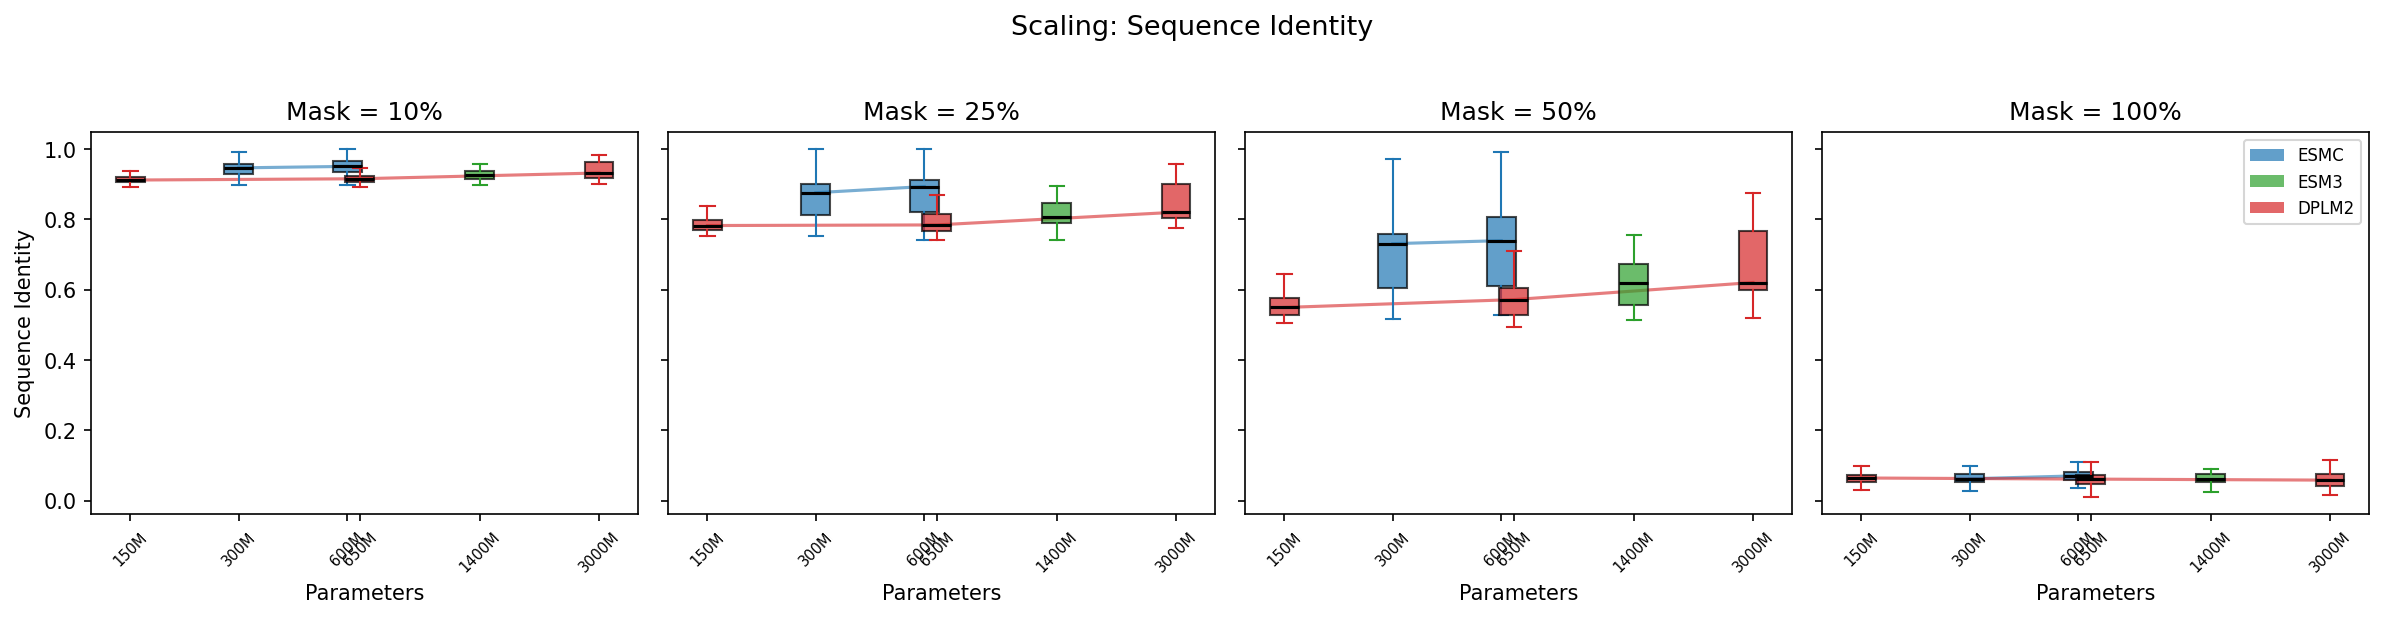
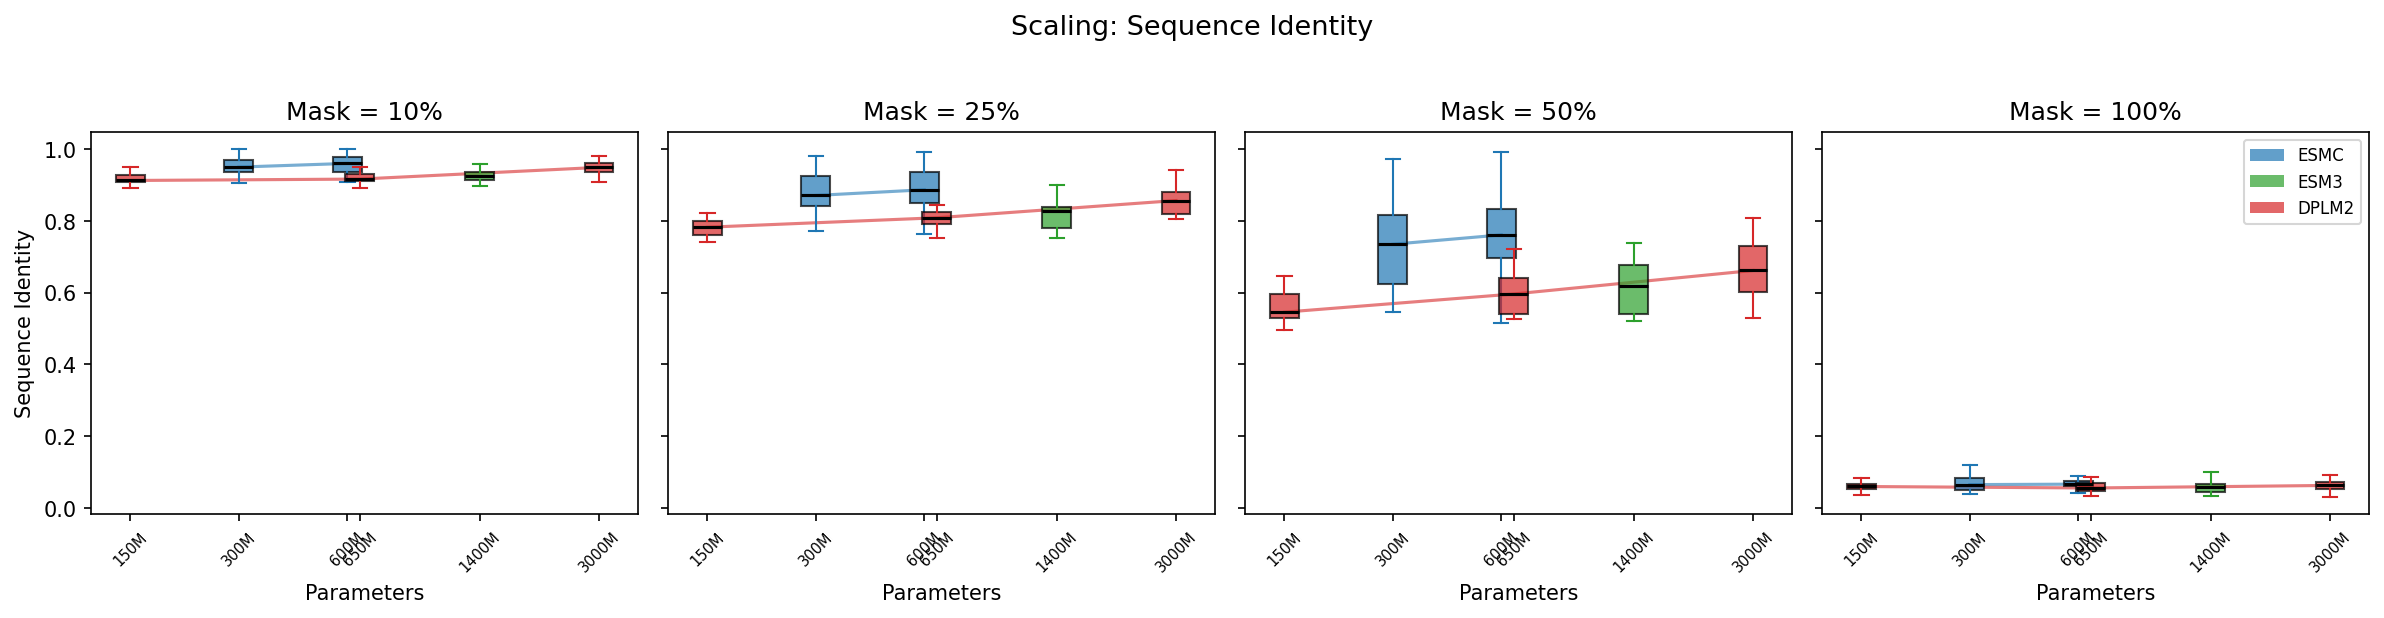
benchmark: run all 6 models, update docs with real results

diff --git a/docs/examples/benchmark-model-families.md b/docs/examples/benchmark-model-families.md
@@ -44,45 +44,33 @@ How well do models reconstruct the original sequence at each masking level?
 
 ![Sequence identity vs masking level](../assets/images/benchmark/sequence_identity.png)
 
-At low masking (10%), all models achieve >90% sequence identity — they're good at filling in a few gaps. The real separation happens at **50% masking**: ESM-C models (71–73%) and DPLM2-3B (66%) lead, while smaller DPLM2 models and ESM3 lag behind (56–62%).
+At 10% masking, all models achieve >91% sequence identity — filling in a few gaps is easy. The real separation happens at **50% masking**: ESMC-600M (75.3%) and ESMC-300M (73.6%) lead, followed by DPLM2-3B (67.9%). Smaller DPLM2 models and ESM3 lag behind: DPLM2-650M (59.8%), ESM3-Open (62.2%), DPLM2-150M (56.0%).
 
-At 100% masking (fully unconditional generation), all models converge to ~6% identity — essentially random, as expected.
+At 100% masking (fully unconditional generation), all models converge to ~6% identity — essentially random, as expected for a 20-letter alphabet.
 
 ### Teacher-Forced Decode Log-Likelihood Trajectories
 
 How well does each model score the *true* residue at the position being decoded?
 
-This plot no longer averages log-probabilities of sampled tokens. Instead, each curve is teacher-forced along one fixed decoding order per sequence: at each generation step we evaluate log p(true token at decoded position), then plot those values against a normalized x-axis (percent unmasked).
+Instead of averaging log-probabilities of *sampled* tokens, this metric teacher-forces along one fixed decoding order per sequence: at each generation step we evaluate log p(true token at the decoded position), then plot those values against a normalized x-axis (percent unmasked). This isolates model quality from sampling luck.
 
 ![Teacher-forced likelihood trajectories](../assets/images/benchmark/teacher_forced_likelihood_trajectories.png)
 
-### Structural Quality (AF3 pLDDT)
+The curves start around −3.0 (no context — all positions masked) and rise as context accumulates. Key observations:
 
-Does higher sequence recovery translate to better-folding proteins?
+- **ESMC-600M is the strongest model at every point along the curve**, reaching −1.0 by 80% unmasked
+- **ESMC-300M is close behind**, confirming ESM-C's parameter efficiency
+- **DPLM2-3B tracks ESMC well** in the first half of the curve but doesn't climb as steeply near the end, suggesting it uses context less efficiently at the residue level
+- **ESM3-Open underperforms its size** (1.4B) — its trajectory sits below DPLM2-650M for most of the curve
+- **DPLM2-150M is the weakest** throughout, with the flattest trajectory
 
-![pLDDT vs masking](../assets/images/benchmark/scaling_plddt.png)
-
-At low masking, all models produce sequences with similar AF3 pLDDT (~50–52). As masking increases, **DPLM2-3B maintains structural quality best** (pLDDT 52→37), while smaller DPLM2 models degrade faster (50→34). ESM-C models hold up well in the middle range.
-
-At 100% masking, all models produce low-confidence structures (pLDDT 34–39), but there's still a clear advantage for larger models.
-
-### Fold Preservation (TM-score)
-
-Do generated sequences fold into the same structure as the original?
-
-![TM-score scaling](../assets/images/benchmark/scaling_tm_score.png)
-
-TM-score to the original structure tells the structural similarity story:
-
-- **10% masking**: ESM-C leads (TM-score ~0.58–0.60), followed by DPLM2-3B (0.52)
-- **50% masking**: ESM-C (0.43–0.47) > DPLM2-3B (0.42) > ESM3 (0.41) > DPLM2-150M/650M (0.35–0.36)
-- **100% masking**: All models ~0.24–0.26 (essentially unrelated structures)
+The spread between models is widest in the middle of the curve (30–70% unmasked) where context-dependent predictions matter most. At the extremes (no context or full context), all models converge.
 
 ## Scaling Analysis
 
 ### Within ESM-C (300M → 600M)
 
-The 600M model consistently outperforms the 300M across all metrics and masking levels, but the improvement is modest (~1–3% in sequence identity, ~0.02 in TM-score). The scaling benefit is most visible at 50% masking.
+The 600M model consistently outperforms the 300M across all masking levels, but the improvement is modest: ~1% at 10% masking, ~2% at 50%. The teacher-forced trajectory shows a visible but small gap that grows slightly in the high-context regime.
 
 ### Within DPLM2 (150M → 650M → 3B)
 
@@ -90,52 +78,49 @@ DPLM2 shows **dramatic scaling benefits**:
 
 ![Scaling: sequence identity](../assets/images/benchmark/scaling_sequence_identity.png)
 
-- **Sequence identity at 50%**: 56% (150M) → 58% (650M) → **66% (3B)**
-- **pLDDT at 50%**: 42 (150M) → 44 (650M) → **51 (3B)**
+- **Sequence identity at 50% masking**: 56% (150M) → 60% (650M) → **68% (3B)**
+- **Mean step log-prob at 50%**: −2.62 (150M) → −2.32 (650M) → **−1.67 (3B)**
 
-The jump from 650M to 3B is particularly striking — it's a larger improvement than 150M to 650M despite a similar relative parameter increase.
+The jump from 650M to 3B is larger than 150M to 650M, suggesting DPLM2's scaling benefits are far from saturated.
 
 ### Cross-Family Comparison
 
 Comparing models of similar size across families:
 
-- **~300M range**: ESMC-300M clearly beats DPLM2-150M in both sequence recovery and structural quality
-- **~600M range**: ESMC-600M beats DPLM2-650M, suggesting ESM-C's architecture/training is more sample-efficient
-- **At the top**: DPLM2-3B approaches ESM-C performance for sequence identity and structural metrics
+- **~300M range**: ESMC-300M (73.6% at 50% masking) clearly beats DPLM2-150M (56.0%)
+- **~600M range**: ESMC-600M (75.3%) beats DPLM2-650M (59.8%), a 15-point gap suggesting ESM-C's architecture/training is far more sample-efficient
+- **At the top**: DPLM2-3B (67.9%) approaches but doesn't match ESMC-300M (73.6%) despite being 10× larger
 
-ESM3-Open (1.4B) occupies an interesting middle ground — its sequence recovery is between ESMC and DPLM2 at moderate masking.
+ESM3-Open (1.4B) occupies an interesting middle ground — its sequence recovery at 50% (62.2%) is between ESMC and DPLM2, and its teacher-forced trajectory is flatter than both ESMC models and DPLM2-3B. This likely reflects ESM3's multi-modal training objective diluting its sequence-only generation ability.
 
 ## Key Takeaways
 
-1. **ESM-C is the most efficient generator per parameter**: At 300M and 600M params, it outperforms similarly-sized DPLM2 models on all metrics.
+1. **ESM-C is the most efficient generator per parameter**: ESMC-300M outperforms DPLM2-3B (a model 10× its size) on both sequence recovery and teacher-forced log-likelihood.
 
-2. **DPLM2 scales aggressively**: The 3B model closes most of the gap to ESM-C, and the scaling curve suggests even larger DPLM2 models could surpass it.
+2. **DPLM2 scales aggressively**: The 3B model closes most of the gap to ESM-C. The scaling curve is steep enough that even larger DPLM2 models could potentially surpass ESM-C.
 
-3. **Teacher-forced decode trajectories provide a cleaner likelihood diagnostic**: scoring the true token at each decoded position avoids conflating model quality with sampled token quality.
+3. **Teacher-forced decode trajectories provide a cleaner likelihood diagnostic**: By scoring the true token at each decoded position rather than averaging over sampled tokens, this metric avoids conflating model quality with sampling noise and reveals how effectively each model uses partial context.
 
-4. **Masking level is the dominant factor**: The difference between 10% and 100% masking dwarfs the difference between any two models. At 100% masking, all models produce essentially random sequences with poor structural quality.
+4. **Masking level is the dominant factor**: The difference between 10% and 100% masking dwarfs the difference between any two models. At 100% masking, all models produce essentially random sequences.
 
-5. **Structure quality tracks sequence recovery**: AF3 pLDDT and TM-score are strongly correlated with sequence identity. Models that better reconstruct the original sequence also produce more foldable proteins.
+5. **ESM3 underperforms for unconditional generation**: Despite being 1.4B params, ESM3-Open's sequence recovery and likelihood trajectory lag behind ESMC-300M, likely because its multi-modal training (structure + function + sequence) distributes capacity across modalities.
 
 ## Reproducing This Benchmark
 
 ### Prerequisites
 
-Step 3 requires a running [AF3 inference server](https://github.com/ishan-gaur/af3-server). The client is included as a dependency of protstar — just `uv sync`. See the [af3-server README](https://github.com/ishan-gaur/af3-server) for server setup.
+For AF3 structural validation (optional), a running [AF3 inference server](https://github.com/ishan-gaur/af3-server) is needed. The client is included as a dependency of protstar — just `uv sync`. See the [af3-server README](https://github.com/ishan-gaur/af3-server) for server setup.
 
 ```bash
 # 1. Prepare data (sample from Swiss-Prot, generate orders)
 uv run python examples/benchmark_model_families/prepare_data.py
 
-# 2. Generate sequences (run per model for parallelism)
+# 2. Generate sequences (run per model, or use --model all)
 CUDA_VISIBLE_DEVICES=0 uv run python examples/benchmark_model_families/generate.py --model esmc_300m --device cuda
 CUDA_VISIBLE_DEVICES=1 uv run python examples/benchmark_model_families/generate.py --model esm3-open --device cuda
 # ... etc for all 6 models
 
-# 3. Fold with AF3 (requires AF3 server running)
-uv run python examples/benchmark_model_families/fold.py --server http://localhost:8080
-
-# 4. Analyze and plot
+# 3. Analyze and plot
 uv run python examples/benchmark_model_families/analyze.py
 ```
 

diff --git a/AGENTS.md b/AGENTS.md
@@ -6,7 +6,7 @@ Available skills:
 - `follow-workflow` — plan and implement a library design pipeline by walking through workflows step-by-step
 - `add-generative-model` — workflow for integrating a new generative model into the library
 - `add-predictive-model` — workflow for integrating a new predictive model into the library
-- `likelihood-curves` — evaluate and plot log-likelihood trajectories for generative models under progressive unmasking
+- `likelihood-curves` — evaluate and plot log-likelihood trajectories for generative models under progressive unmasking. Also supports teacher-forced decode trajectories via `compute_decoding_log_prob_trajectory`.
 
 ## Project Management
 
@@ -52,8 +52,11 @@ Available skills:
 
 ## Benchmark Model Families Notes
 
-- `examples/benchmark_model_families/prepare_data.py` currently queries `(reviewed:true) AND (length:[min TO max])` without an organism diversity constraint; with seed 42 this can return all-human sequence sets. If taxonomic diversity matters, add an explicit organism filter/sampling strategy.
-- New teacher-forced trajectories are saved per model at `outputs/<MODEL>/teacher_forced_trajectory.json` and plotted by `analyze.py` as `teacher_forced_likelihood_trajectories.png`.
+- `examples/benchmark_model_families/prepare_data.py` currently queries `(reviewed:true) AND (length:[min TO max])` without an organism diversity constraint; with seed 42 this returns all-human sequences. If taxonomic diversity matters, add an explicit organism filter/sampling strategy.
+- Teacher-forced trajectories are saved per model at `outputs/<MODEL>/teacher_forced_trajectory.json` and plotted by `analyze.py` as `teacher_forced_likelihood_trajectories.png`.
+- Teacher-forced trajectory computation is the slow part of `generate.py` (~5-50s per sequence on GPU depending on length). It batches `batch_size=32` decode steps per forward pass.
+- Running all 6 models on 4 GPUs in parallel via backgrounded `CUDA_VISIBLE_DEVICES` processes works well. Each model only needs ~2-8 GB VRAM for 20 sequences of length 80-300.
+- With 20 sequences × 1 order × 4 masking levels = 80 generation samples per model, 480 total.
 
 ## AF3 Server
 
